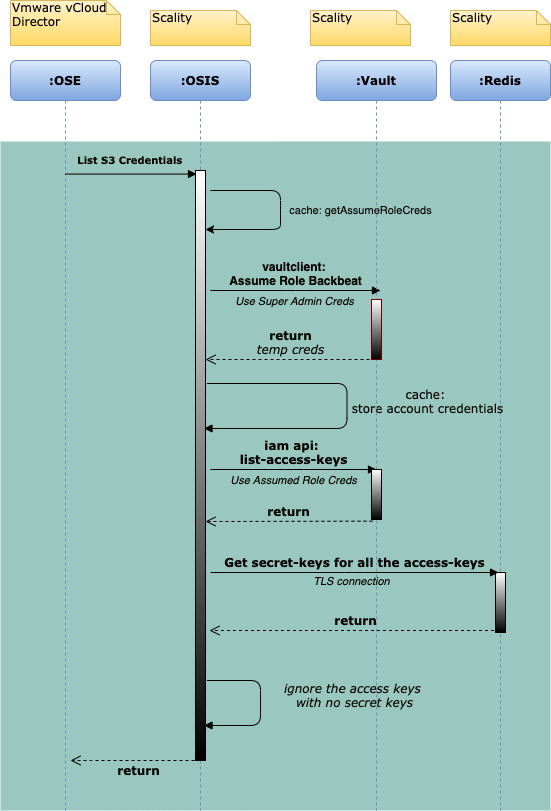
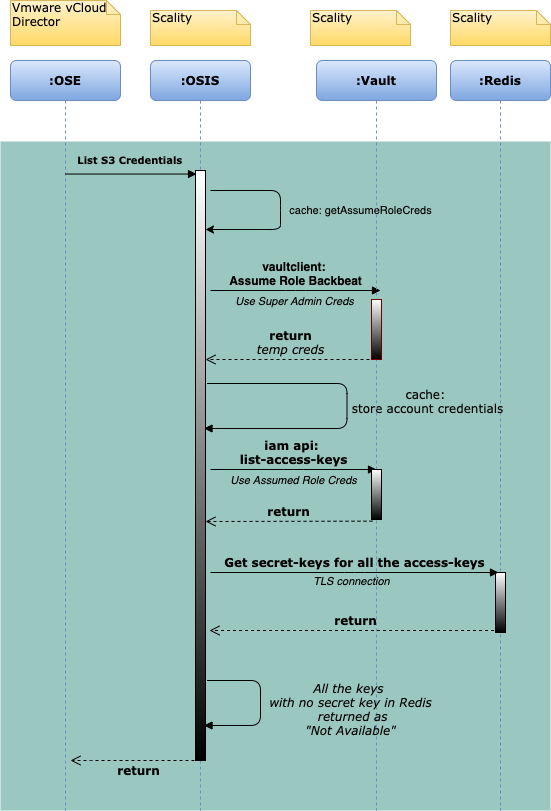
feature:S3C-4366 Remove logging/script for not available keys.
Description:
Keys that are "Not Available" on Redis will be returned along with `'listS3Credentials` API

Changed region(s): [[0.4936, 0.8323, 0.7713, 0.9248]]

diff --git a/Design.md b/Design.md
@@ -182,8 +182,7 @@ This API creates a user on Vault.
 1. If the `get-policy` API does not return any policy, using the assumed role credentials creates an IAM managed policy with the `userPolicy@[account-id]` policy name with full S3 access.
 1. `attach-policy` for the new user will be called using the assumed role credentials and the policy arn formatted as `arn:aws:iam::[account-id]:policy/userPolicy@[account-id]`.
 1. The IAM `generate-access-key` API will be called using assumed role credentials.
-1. Encrypt the secret key (For more, see [SecretKey-Encryption-Strategy](#SecretKey-Encryption-Strategy)). Store the encrypted secret key on Redis Sentinel in the hash named "osis:s3credentials", with the hash key formatted as `<Username>__<AccessKeyID>`. 
-1. Log the access key ID _(Log location and tools for logging are yet to be decided)_
+1. Encrypt the secret key (For more, see [SecretKey-Encryption-Strategy](#SecretKey-Encryption-Strategy)). Store the encrypted secret key on Redis Sentinel in the hash named "osis:s3credentials", with the hash key formatted as `<Username>__<AccessKeyID>`.
 
 ### Create User Example Activity Diagram
 ![Create User](Design_Files/OSE-OSIS-Create-User.png)
@@ -231,8 +230,7 @@ This API will enable or disable user on Vault.
 ### Create S3 Credential
 This API creates S3 credentials for the user.
 1. The Generate Access Key API will be called using assumed role credentials.
-1. Encrypt the secret key (For more, see [SecretKey-Encryption-Strategy](#SecretKey-Encryption-Strategy)). Store the encrypted secret key on Redis Sentinel in the hash named "osis:s3credentials", with the hash key formatted as `<Username>__<AccessKeyID>`.
-1. Log the access key ID _(Log location and tools for logging are yet to be decided)_
+1. Encrypt the secret key (For more, see [SecretKey-Encryption-Strategy](#SecretKey-Encryption-Strategy)). Store the encrypted secret key on Redis Sentinel in the hash named `osis:s3credentials`, with the hash key formatted as `<Username>__<AccessKeyID>`.
 
 **Important Notes:**
 * Redis Sentinel is subject to an ongoing rolling upgrade.
@@ -241,10 +239,8 @@ This API creates S3 credentials for the user.
     $ ose service restart
     ```
   * Once OSE service restart process is finished,
-     * OSE will invoke `listS3Credentials` API to identify the keys for object storage operations. OSIS will return only an empty list for `listS3Credentials` API (as no key  is available for the user on Redis).
-     * If no keys are present for a user, OSE will invoke `createS3Credentials` API to create a new key for object storage operations.
-  * Access keys created by OSIS before OSE restart time (`ose-restart-time`) will not be listed by OSIS. vCloud Director Tenant Users are responsible to clean up unused access keys using S3 console or IAM API because they are the only one who knows if the access keys are in used or not.
-  * Access key IDs generated by OSIS will be logged
+     * OSE will invoke `listS3Credentials` API to identify the keys for object storage operations. As no key is available for the user on Redis, OSIS will create a new key for object storage operations and returns along with all the other keys on Vault DB. (For more, see [List S3 Credentials](#List-S3-Credentials))
+  * Access keys created by OSIS before Redis crash will be listed with `secretKey` value as `Not Available`. vCloud Director Tenant Users are responsible to clean up "Not Available" access keys using S3 console or IAM API because only they know if the access keys are in use or not.
 * Redis Sentinel only supports storing **4294967295** (approx. 4.2 billion) keys in the hash.
 
 ### Create S3 Credential Example Activity Diagram
@@ -260,7 +256,8 @@ This API list S3 credentials of the  user.
 1. `list-access-keys` api will be called using assumed role credentials.
 2. Retrieve the secret keys, formatted as `<Username>__<AccessKeyID>`, from Redis Sentinel.
 3. Decrypt the secret keys (For more, see [SecretKey-Encryption-Strategy](#SecretKey-Encryption-Strategy)) and add them to the response.
-4. Exclude the keys in the response that are not present in the Redis Sentinel.
+4. If no key is available for the user on Redis, OSIS will invoke `createS3Credentials` API in the backend to create a new key for object storage operations and adds the new key to the response.
+5. Add all the keys that are not present in the Redis Sentinel at the bottom of the list in the response with `secretKey` value as `Not Available`.
 
 ### List S3 Credentials Example Activity Diagram
 ![List S3 Credentials](Design_Files/OSE-OSIS-List-S3-Credentials.png)
